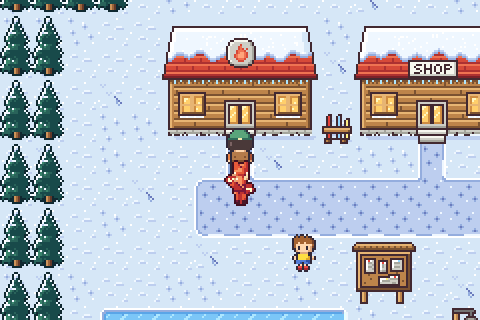
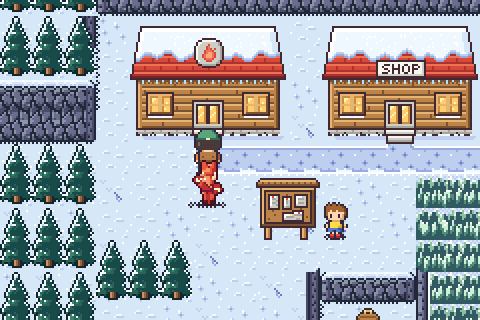
Frosthollow and Duskmere redesigned on heights: handoff, screenshots, NPC hints

diff --git a/docs/handoff/towns_north_grim.md b/docs/handoff/towns_north_grim.md
@@ -1,0 +1,126 @@
+# Towns: FROSTHOLLOW and DUSKMERE redesigned (regions north, grim)
+
+Both towns are rebuilt on the height layer (docs/ELEVATION.md). The map data
+is in `src/game/world/north/data.h` (`FROSTHOLLOW_ROWS/_ELEV/_FEATS`, a
+header comment above them explains the layout) and
+`src/game/world/grim/data.h` (`DUSKMERE_ROWS/_ELEV/_FEATS`, same). Edit the
+arrays directly; they are the source of truth.
+
+| | |
+| --- | --- |
+| ![](../images/frosthollow_over.png) the road over the Hollow Bridge | ![](../images/frosthollow_front.png) the Hollow lane, about to pass under it |
+| ![](../images/frosthollow_store.png) inside the sunken store (hidden cut) | ![](../images/frosthollow_watch.png) the pine gap to the Watch |
+| ![](../images/duskmere_over.png) on the Long Walk, the Ossuary gate below | ![](../images/duskmere_under.png) under the Long Walk (hat showing), on the way to the gate |
+| ![](../images/duskmere_gap.png) the hidden gap in the cypress | ![](../images/duskmere_chapel.png) the drowned chapel |
+
+## FROSTHOLLOW (44x40, was a 40x36 box with a road cross)
+
+A valley town under Whitecrown on four levels:
+
+| level | district | what's there |
+| --- | --- | --- |
+| 3 | **Crownside** (north) | the road north (x 19-20), the RIME HALL on its shelf (two walkable rows in front), NE crags, the NW pine bluff, **the Watch** (a clearing behind a pine wall). |
+| 1 | **Market terrace** | Hearth + Shop tucked under Crownside's two-row cliff, the octagonal ice-statue plaza, the notice board, the Glimmer cave at the foot of the east ridge (three rows of rock over the mouth), the **sunken store** (a pit in the terrace). |
+| 2 | **Ridges** | pine-crowned ridges along the Hollow's north rim and above the lake, so the gorge wall is a two-row cliff (not walkable, pure silhouette). |
+| 0 | **The Hollow**, **Steam Hollow**, low town | a gorge right across the town: lane, skating rink (flat ground, snow buffer rows around it), the bathhouse and the steaming pool under the three-row east cliff; the frozen lake reaching the west and south-west edges, the Alder house, the pond, the south road. |
+| 1 / 3 | **South terrace**, **Stargazer's Knoll** | the terrace the bridge lands on; the knoll (3) with the stargazer's house and telescope, its cliff running off the south edge. |
+
+- **Over and under:** the Hollow Bridge (`BRIDGE_V 19-20, rows 23-29`) carries
+  the road over the Hollow; the Hollow lane runs under it, and it is the only
+  way to the bathhouse (from the lake basin in the west, or by the ledges).
+- **Stairs:** Crownside two-step staircase (19-20, 9-10); south road
+  (19-20, 36); from the Hollow up onto the south terrace (26,30); side stairs
+  climbing two levels onto the knoll (32-33, 33).
+- **One-way shortcuts:** ledges from the plaza into the Hollow (25-27, 23),
+  from the east market into the Steam Hollow (35-36, 22) and from the south
+  terrace to the south road (23-26, 35).
+- **Hidden:** (1) a `HIDDEN` mouth in the Hollow's north wall (11,23) leads
+  through the old ice-cutters' cut (`TUNNEL 11, 21-22`) into the sunken store
+  (10-12, 18-20), seen from the market but unreachable from it: STAR LANTERN
+  x2. Hints: an ice crystal beside the mouth; the KID by the notice board now
+  talks about the store and "the HOLLOW". (2) A gap in the pine wall (8-9,5),
+  hinted by a path stub, to the Watch: bench, WAYSTONE.
+- Moved (all consistent): doors Hearth (6,12), Shop (12,12), Rime Hall
+  (28,6), Alder house (10,31), Stargazer (39,35), hot spring (38,27), Glimmer
+  cave (36,16); elder (22,12), ice carver (24,15), skater (10,35, on the
+  pond), hall guide (29,7), old miner (35,18), villager + TUXFLAKE (25,32),
+  kid (10,16); signs (22,37) (32,7) (33,16); fly point (6,14); berry patch 24
+  at (31,35). Edge contracts unchanged (x 19-20 north and south).
+- Decor kinds: ICE_BLOCKS, BARREL and CRATE never loaded (the old map was
+  over the 512-tile budget) and are gone; WOODPILE and SKI_RACK made room
+  for TELESCOPE and ICE_CRYSTAL. 510/512 scene tiles.
+
+## DUSKMERE (44x40, was a grid of paths on a mud square)
+
+A stilt town on peat isles in the black mere, under the Hollowing's ash:
+
+| level | district | what's there |
+| --- | --- | --- |
+| 1 | **Square isle** | the causeway from the west edge (y 20-21), Hearth + Shop, the round cobbled square with the mire bell and the bellkeeper, the bog fisher's pier, the **lamp jetty** north to the islet where the lantern for the lost burns. |
+| 2 | **Lantern Hill** (north-east) | the graveyard (graves, crosses, bracken with wild kin), the LANTERN CRYPT, an iron railing along the top of the two-row cliff. Side stairs from the square (28,10). |
+| 0 | **Gate yard** | the sealed OSSUARY gate cut into the foot of Lantern Hill's cliff, bones, a wisp; Gate Warden Osric. |
+| 1 | **East isle** | the MIRE HOUSE (Widow Maren); ledges drop onto it from the graves (39-41, 13). |
+| 0 | **Reed flats** | reeds (the MIRE wild zone), black pools, the lane north under the Long Walk; the **drowned chapel** in the south-east. |
+| 1 | **Apothecary isle** | Mother Henbane's apothecary. |
+
+- **Over and under:** THE LONG WALK (`BRIDGE_H 28-38, rows 20-21`) carries
+  the square's road over the gate yard to the east isle; the only way to the
+  Ossuary gate is the lane **under** it, from the reed flats (stairs 18-19,27
+  and ledges 22-23,27 lead down from the square). "Nobody goes near it,
+  everybody looks at it every day": the gate is in full view from the walk.
+  HENBANE'S WALK (`BRIDGE_V 11-12, rows 27-30`) crosses the flats to the
+  apothecary isle; the flats pass under it to a reed nook (OLD COIN x2).
+- **Hidden:** a gap in the cypress screen (36-37,33), marked by drifting
+  foxfire, to the drowned chapel: the Burning memorial and a REVIVAL BREW.
+  The kid with NOXKIT now warns about following the foxfire into the cypress.
+- Moved (all consistent): doors Hearth (12,12), Shop (17,12), apothecary
+  (6,34), Mire House (40,26), Lantern Crypt (34,7); the Ossuary's exit lands
+  at (35,19) beside Osric (34,19); bellkeeper (19,18), bog fisher (6,12),
+  kid (15,23), lamplighter (22,11); signs (8,19) (31,8) (31,18); satchels
+  REVIVAL BREW (39,34), OLD COIN (9,29), WAKE BELL (42,8); fly point (12,13).
+  Edge contract unchanged (west y 20-21, the only open edge cells).
+- **Tiles:** the grim tileset was at 497/500 and DUSKMERE silently lost its
+  lanterns, pumpkins, moorings and wisps (they drew as garbage). The
+  LANTERN CRYPT and BONE GATE stamps are now drawn mirror-symmetric
+  (`mirror_lr` in `tools/tilesets/ts_grim.py`), so their right halves reuse
+  the left halves' tiles: grim is 444 tiles. That also fixes ASHEN FIELDS
+  (GR_CART) and GRAVEWOOD (GR_SHRUB). DUSKMERE uses 13 decor kinds, 509/512.
+  `python3 tools/gen_field_gfx.py` regenerated `src/gfx_field.h` and the
+  debug viewer maps (fewer grim pages).
+
+## Tests
+
+- `tools/test_field.c`: every map's decor kinds must actually load (the
+  loader skipped kinds that did not fit and the old budget check could never
+  fail). On this branch it fails only for west maps (SALTWIND TRAIL, PORT
+  BRINE, SEA ROUTE, GULL ISLE, DROWNED BELL): the west agent owns those.
+- `tools/tests/test_north.c` `test_frosthollow`: decor loads, the road over
+  and the lane under the bridge, the bathhouse in the Steam Hollow, the store
+  and the Watch behind hidden passages, the store is a pit. The ice carver's
+  talk position follows him to (24,15).
+- `tools/tests/test_grim.c` `test_duskmere`: decor loads, over/under the Long
+  Walk, the gate in the sunken yard under the hill, the chapel behind the
+  hidden gap, the Ossuary exit beside Osric. The haze test enters at the new
+  fly point.
+- The level-aware reachability flood, the elevation lint and test_puzzles
+  pass for both towns.
+
+## Screenshots
+
+- In the ROM (`build/shot`): `build/towns_shots/*.png` (script:
+  `fh_*` Frosthollow, `dm_*` Duskmere); copies in `docs/images/frosthollow_*`
+  and `docs/images/duskmere_*`; `docs/images/region_{frosthollow,duskmere}.png`
+  regenerated (fly points moved; `tools/make_media.py` follows).
+- `make maps` -> `build/maps/39_frosthollow.png`, `build/maps/53_duskmere.png`.
+
+## Left / ideas
+
+- The player is hidden entirely under the Hollow Bridge (it is 7 rows long);
+  a wider, shorter crossing would show the hat, as under the Long Walk.
+- Snow faces are dark grey rock with a white lip; a lighter, frostier rock
+  (the snow `ROLES` entry in tools/elevation.py) would suit the valley.
+- Frosthollow's decor budget is full (510/512); a new decor kind needs one
+  dropped. Grim has room again (Duskmere 509 with 13 kinds; the fields and
+  Gravewood ~460).
+- The reeds beside the lane to the gate, on the flats and the graveyard
+  bracken are wild-kin grass (ZONE_MIRE); the isles are safe.
